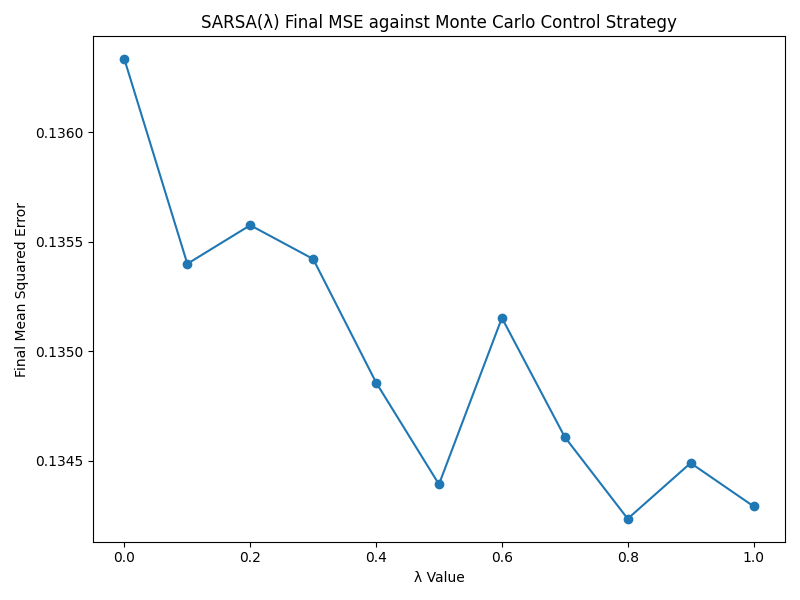
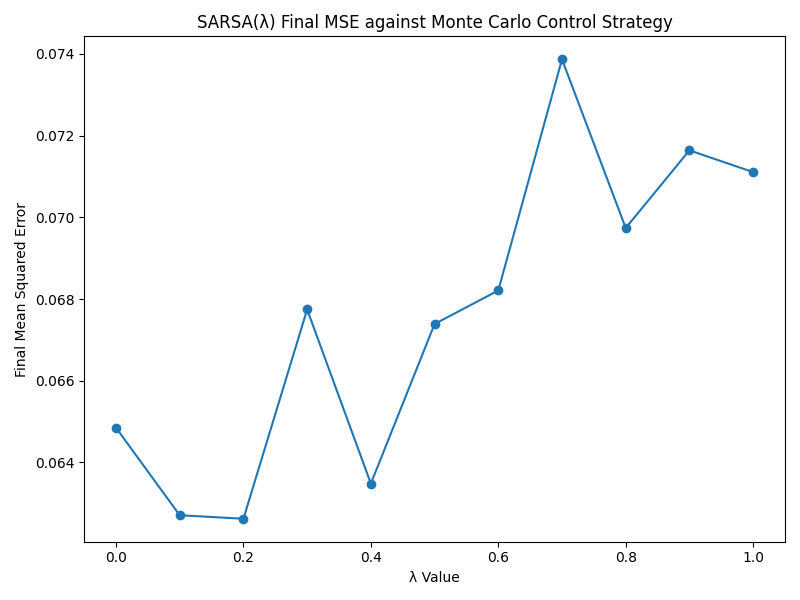
Latency optimization for tabular Sarsa lambda strategy: avoid computing action-value for state-action pairs whose eligibility trace is zero. Extend experiment to 100K episodes now that Sarsa lambda runs faster. Updated README.md with new findings.

diff --git a/control_strategy.py b/control_strategy.py
@@ -66,9 +66,6 @@ class Policy:
         self.strategy: 'ControlStrategy' = None
 
     def sample(self, state: State) -> Action:
-        raise NotImplementedError()
-
-    def sample(self, state: State) -> Action:
         '''Samples an action based on the policy's distribution for the given state.
         
         Note since we do not materialize the state-action pairs, we use the linked
@@ -297,15 +294,20 @@ class SarsaLambdaControlStrategy(ControlStrategy):
         # than bias, and as MC sees more episodes, sample size increases thus stablizes the
         # variance more, at which point smaller step size is better to avoid overshooting.
         alpha = 0.01
-        greedy_action: dict[State, tuple[float, Action]] = {}
-        for state in self.q.keys():
-            for action in self.q[state].keys():
-                self.q[state][action] += alpha * delta * self.e[state][action]
-                self.e[state][action] *= self.lmda
-                if state not in greedy_action \
-                    or action not in greedy_action[state] \
-                        or self.q[state][action] > greedy_action[state][0]:
-                    greedy_action[state] = (self.q[state][action], action)
+        # Performance optimization trick: rather than iterating over the entire state-action
+        # space in the action-value tabular q (which monotonically grows as more episodes are run),
+        # we only need to update those state-action pairs that have non-zero eligibility trace,
+        # as the eligibility trace value is multiplied in the update formula. In practice, this gives
+        # roughly 7x speed up.
+        eligible_state_actions = [
+            (state, action)
+            for state in self.e
+            for action in self.e[state]
+            if self.e[state][action] > 0
+        ]
+        for state, action in eligible_state_actions:
+            self.q[state][action] += alpha * delta * self.e[state][action]
+            self.e[state][action] *= self.lmda
 
         # ATTN: Eligibility trace does not carry over to next episode.
         if new_state.is_terminal:

diff --git a/episode_test.py b/episode_test.py
@@ -89,7 +89,7 @@ def test_mse_sarsa_lambda_strategy(use_tabular) -> None:
     
     Uses MC 100K-eisode result as ground truth.
     """
-    num_episodes = 1000
+    num_episodes = 100000
 
     def load_ground_truth() -> dict[State, dict[Action, float]]:
         filepath = Path('MonteCarloControlStrategy.pkl')

diff --git a/README.md b/README.md
@@ -160,47 +160,13 @@ See `control_strategy.LinearFunctionApproximationSarsaLambdaControlStrategy`.
 Key implementation notes:
 1. Function approximation requires some companion estimator from tabular methods, but instead of physially materializing the action value table, we can use function approximation to estimate its value. IOW, the dependency is both ways, with different time step to break cycle: (1) function approximation invokes companion's total reward formula using its current weights to help estimate that total reward, then (2) inference total reward using its own weight without seeing the immediate reward. Then the diff (a scalar) is the error and can be used to define how far to descend in gradient.
 2. For native Sarsa(λ), eligibility trace is a matrix of state-action pairs mapping to some trace value. For function approximation with  Sarsa(λ), since we cannot materialize the table, we will use the weight vector's vector space (aka feature vector space) to track eligibility.
-3. Function approximiation generally gives 2x latency boost, while MSE errors appear on-par:
-
-```bash
-(easy21) ly232@ly232s-iMac-Pro easy21 % uv run pytest episode_test.py::test_mse_sarsa_lambda_strategy -s
-
-==================================================================================================== test session starts =====================================================================================================
-platform darwin -- Python 3.14.2, pytest-9.0.2, pluggy-1.6.0
-rootdir: /Users/ly232/github/easy21
-configfile: pyproject.toml
-plugins: jaxtyping-0.3.5
-collected 2 items                                                                                                                                                                                                            
-
-Computing MSE for λ=0.0, tabular: 100%|██████████████████████████████████████████████████████████████████████████████████████████████████████████████████████████████████████████████████| 1000/1000 [00:01<00:00, 580.50it/s]
-Computing MSE for λ=0.1, tabular: 100%|██████████████████████████████████████████████████████████████████████████████████████████████████████████████████████████████████████████████████| 1000/1000 [00:01<00:00, 610.04it/s]
-Computing MSE for λ=0.2, tabular: 100%|██████████████████████████████████████████████████████████████████████████████████████████████████████████████████████████████████████████████████| 1000/1000 [00:01<00:00, 602.47it/s]
-Computing MSE for λ=0.3, tabular: 100%|██████████████████████████████████████████████████████████████████████████████████████████████████████████████████████████████████████████████████| 1000/1000 [00:01<00:00, 620.24it/s]
-Computing MSE for λ=0.4, tabular: 100%|██████████████████████████████████████████████████████████████████████████████████████████████████████████████████████████████████████████████████| 1000/1000 [00:01<00:00, 617.15it/s]
-Computing MSE for λ=0.5, tabular: 100%|██████████████████████████████████████████████████████████████████████████████████████████████████████████████████████████████████████████████████| 1000/1000 [00:01<00:00, 612.62it/s]
-Computing MSE for λ=0.6, tabular: 100%|██████████████████████████████████████████████████████████████████████████████████████████████████████████████████████████████████████████████████| 1000/1000 [00:01<00:00, 606.66it/s]
-Computing MSE for λ=0.7, tabular: 100%|██████████████████████████████████████████████████████████████████████████████████████████████████████████████████████████████████████████████████| 1000/1000 [00:01<00:00, 620.43it/s]
-Computing MSE for λ=0.8, tabular: 100%|██████████████████████████████████████████████████████████████████████████████████████████████████████████████████████████████████████████████████| 1000/1000 [00:01<00:00, 618.63it/s]
-Computing MSE for λ=0.9, tabular: 100%|██████████████████████████████████████████████████████████████████████████████████████████████████████████████████████████████████████████████████| 1000/1000 [00:01<00:00, 621.37it/s]
-Computing MSE for λ=1.0, tabular: 100%|██████████████████████████████████████████████████████████████████████████████████████████████████████████████████████████████████████████████████| 1000/1000 [00:01<00:00, 619.16it/s]
-Computing MSE for λ=0.0, func-approx: 100%|█████████████████████████████████████████████████████████████████████████████████████████████████████████████████████████████████████████████| 1000/1000 [00:00<00:00, 1119.58it/s]
-Computing MSE for λ=0.1, func-approx: 100%|█████████████████████████████████████████████████████████████████████████████████████████████████████████████████████████████████████████████| 1000/1000 [00:00<00:00, 1106.61it/s]
-Computing MSE for λ=0.2, func-approx: 100%|█████████████████████████████████████████████████████████████████████████████████████████████████████████████████████████████████████████████| 1000/1000 [00:00<00:00, 1117.76it/s]
-Computing MSE for λ=0.3, func-approx: 100%|█████████████████████████████████████████████████████████████████████████████████████████████████████████████████████████████████████████████| 1000/1000 [00:00<00:00, 1113.77it/s]
-Computing MSE for λ=0.4, func-approx: 100%|█████████████████████████████████████████████████████████████████████████████████████████████████████████████████████████████████████████████| 1000/1000 [00:00<00:00, 1081.45it/s]
-Computing MSE for λ=0.5, func-approx: 100%|█████████████████████████████████████████████████████████████████████████████████████████████████████████████████████████████████████████████| 1000/1000 [00:00<00:00, 1087.82it/s]
-Computing MSE for λ=0.6, func-approx: 100%|█████████████████████████████████████████████████████████████████████████████████████████████████████████████████████████████████████████████| 1000/1000 [00:00<00:00, 1101.48it/s]
-Computing MSE for λ=0.7, func-approx: 100%|█████████████████████████████████████████████████████████████████████████████████████████████████████████████████████████████████████████████| 1000/1000 [00:00<00:00, 1068.37it/s]
-Computing MSE for λ=0.8, func-approx: 100%|█████████████████████████████████████████████████████████████████████████████████████████████████████████████████████████████████████████████| 1000/1000 [00:00<00:00, 1082.06it/s]
-Computing MSE for λ=0.9, func-approx: 100%|█████████████████████████████████████████████████████████████████████████████████████████████████████████████████████████████████████████████| 1000/1000 [00:00<00:00, 1074.81it/s]
-Computing MSE for λ=1.0, func-approx: 100%|█████████████████████████████████████████████████████████████████████████████████████████████████████████████████████████████████████████████| 1000/1000 [00:00<00:00, 1047.48it/s]
-```
 
 ![MSE per lambda](SarsaLambdaControlStrategy_FuncApprox_MSE.png)
 
 ![Final MSE vs λ](SarsaLambdaControlStrategy_FuncApprox_Final_MSE.png)
 
-## Future Exploration Topics:
+Function approximation appears to perform better initially, but worse in the long run, when comparing against the tabular method. This is expected because tabular methods initially don't explore much, so most estimates are zero, whereas function approximation has better generalizations initially, which gave better estimates initially even for unvisited states. But as we get more episodes, tabular methods visit more states and their estimates are more accuate.
 
-1. It appears always doing random policy without policy improvement during policy iteration actually converges faster for TD-based tabular and function approximation methods. Why?
-2. It appears function approximation performs better than tabular in MSE. Why?
+## Other interesting findings:
+
+1. It appears always doing random policy without policy improvement during policy iteration actually converges faster for TD-based tabular and function approximation methods for initial iterations. One hypothesis is that initial TD errors have higher bias and therefore random policies might give more exploration than exploitation. But as we gather more episodes we do expect random policy error to stop improving and perform worse than policy improvement strategies.
